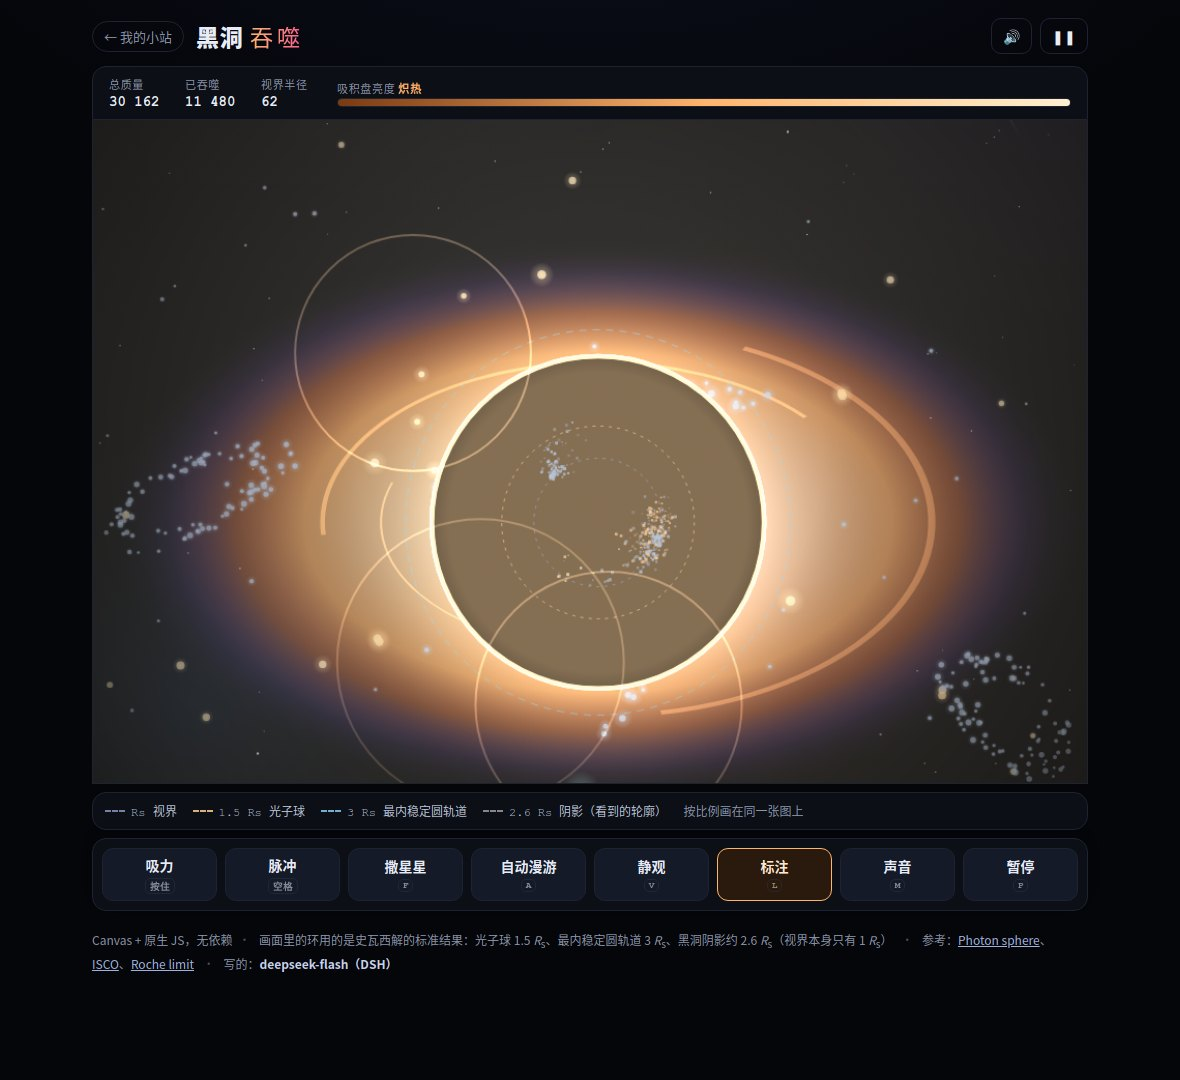
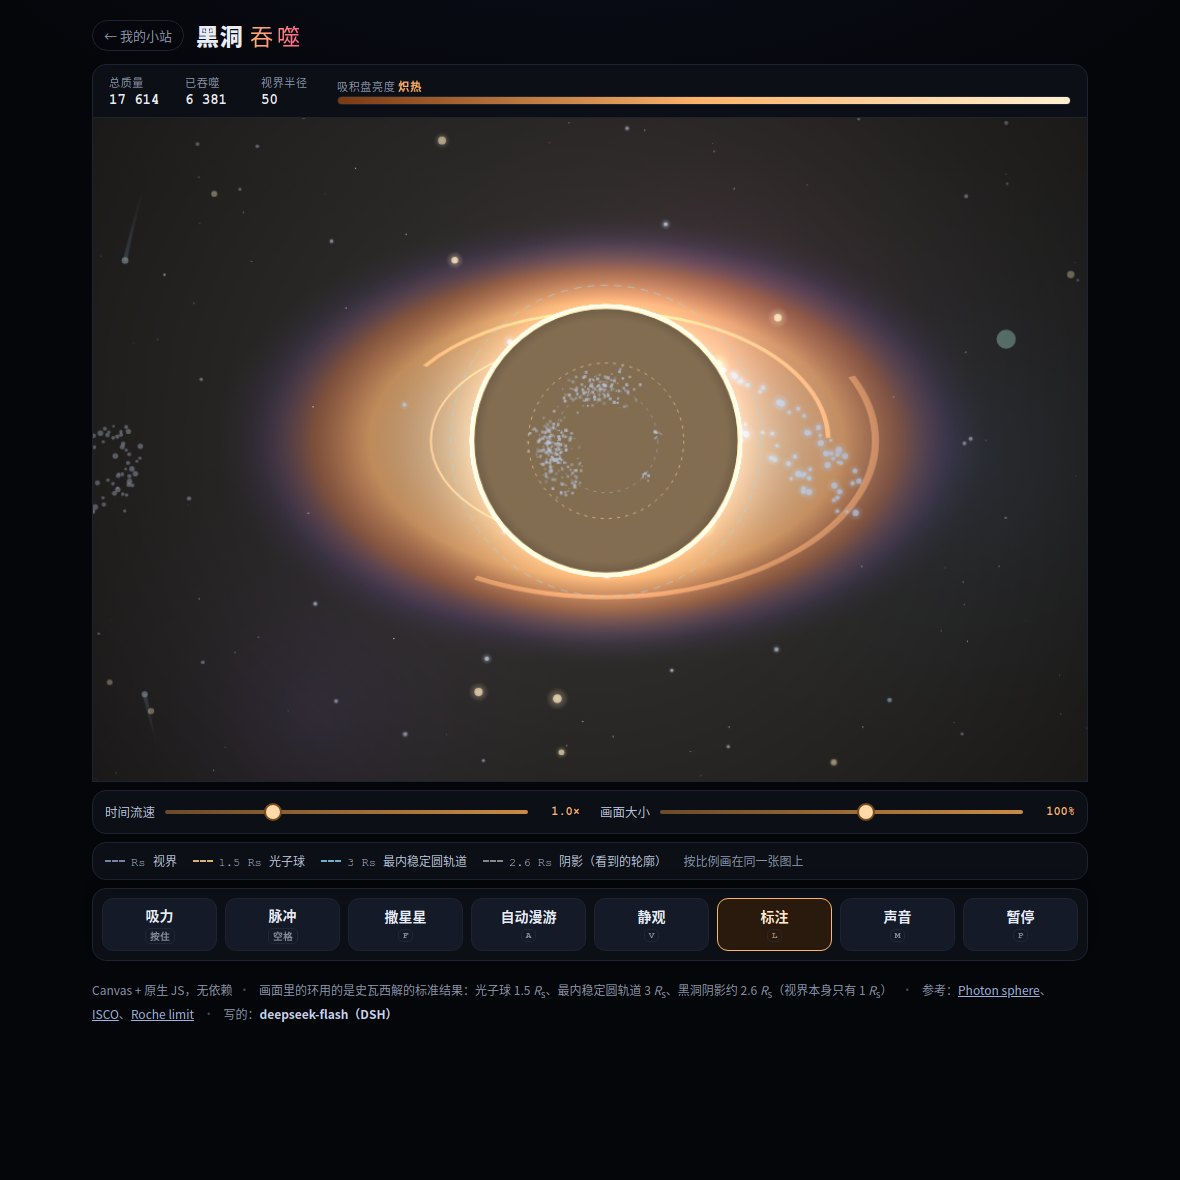
黑洞：时间流速/画面大小滑块、漫游随机喷流、移除顶栏重复按钮
- 两个滑块 + 漫游时自动喷流 + 修掉 btn-zen 重复 id 导致的监听器失效
- 自测 40 -> 50 项

diff --git a/source/games/blackhole/game.js b/source/games/blackhole/game.js
@@ -32,7 +32,7 @@
     nebula: { r0: 15, r1: 26,  m: 0,  color: '#a98ce0' },
     binary: { r0: 3.0, r1: 4.0, m: 10, color: '#ffd8a0' }
   };
-  var GM_PAIR = 36000;          // 双星之间的相互引力
+  var GM_PAIR = 120000;         // 双星之间的相互引力（太弱会被黑洞潮汐力扯散，这也是真实的）
   var PAIR_SEP = 13;
   var JET_R = 105, JET_PUSH = 1600;
   var ZEN_SCALE = 0.45;         // 静观模式拉远到多少
@@ -150,6 +150,7 @@
         noise(0.34, 0.06, 1800, 0.7);
         tone(320, 0.42, 'sawtooth', 0.028, 60);
       },
+      jet: function () { noise(0.55, 0.04, 820, 0.55); tone(74, 0.6, 'triangle', 0.035, 300); },
       pulse: function () { tone(46, 0.9, 'sine', 0.07, 120); noise(0.5, 0.03, 260, 0.5); },
       chime: function (hi) { tone(hi ? 660 : 440, 0.5, 'sine', 0.035); setTimeout(function () { tone(hi ? 880 : 554, 0.6, 'sine', 0.03); }, 160); }
     };
@@ -167,7 +168,7 @@
       labels: true, pull: false, pulseFlare: 0,
       pulseCd: 0, spawnAcc: 0, eaten: 0, bestMass: 1000,
       rate: 0, rateAvg: 0, massLog: 1000, flash: 0, milestone: 0,
-      unlocked: {}, zen: false, hint: 0, hintText: '', jetWindAcc: 0,
+      unlocked: {}, zen: false, hint: 0, hintText: '', jetWindAcc: 0, autoJetTimer: 2 + rnd() * 4, autoJets: 0, timeScale: 1,
       cam: { scale: 1, x: W * 0.5, y: H * 0.5 },
       peak: 0
     };
@@ -400,10 +401,11 @@
     bh.y = lerp(bh.y, bh.ty, follow);
 
     // --- 相机：静观模式缓慢拉远，镜头始终跟着黑洞
+    var camDt = dt / clamp(w.timeScale || 1, 0.2, 3);   // 镜头按真实时间走，不受时间流速影响
     var wantScale = w.zen ? ZEN_SCALE : 1;
-    w.cam.scale = lerp(w.cam.scale, wantScale, 1 - Math.exp(-dt / 5));
-    w.cam.x = lerp(w.cam.x, bh.x, 1 - Math.exp(-dt / 1.0));
-    w.cam.y = lerp(w.cam.y, bh.y, 1 - Math.exp(-dt / 1.0));
+    w.cam.scale = lerp(w.cam.scale, wantScale, 1 - Math.exp(-camDt / 5));
+    w.cam.x = lerp(w.cam.x, bh.x, 1 - Math.exp(-camDt / 1.0));
+    w.cam.y = lerp(w.cam.y, bh.y, 1 - Math.exp(-camDt / 1.0));
     var zoom = clamp(w.cam.scale, ZEN_SCALE, 1);
     var fieldR = FIELD_R / zoom;
     var targetPop = Math.min(1200, Math.round(TARGET_POP / Math.pow(zoom, 1.15)));
@@ -506,6 +508,18 @@
       spawnParticle(w, pickKind(w), false);
     }
     if (w.spawnAcc > 4) w.spawnAcc = 0;
+
+    // --- 漫游时自己随机来一发喷流
+    if (w.auto) {
+      w.autoJetTimer -= dt;
+      if (w.autoJetTimer <= 0) {
+        w.autoJetTimer = 5 + rnd() * 9;
+        fireJets(w, 0.5 + rnd() * 0.7);
+        w.rings.push({ x: bh.x, y: bh.y, r: bh.r * 2, max: 300, life: 1, color: '#bfe6ff' });
+        w.autoJets = (w.autoJets || 0) + 1;
+        if (w.isMain) Sound.jet();
+      }
+    }
 
     // --- 喷流把附近物质吹开（不然喷流只是个装饰）
     w.jetWindAcc += dt;
@@ -856,7 +870,7 @@
   var stage = $('stage'), selftestEl = $('selftest');
   var els = {
     mass: $('hud-mass'), eaten: $('hud-eaten'), rs: $('hud-rs'), rate: $('hud-rate'), disk: $('disk'),
-    ovStart: $('ov-start'), ovPause: $('ov-pause'), btnSound: $('btn-sound')
+    ovStart: $('ov-start'), ovPause: $('ov-pause')
   };
 
   function fitCanvas() {
@@ -964,6 +978,34 @@
   function resetGame() { startGame(input.auto); }
 
   var labelsOn = true;
+  var timeScale = 1;
+
+  // ---- 时间流速 / 画面大小 滑块 ----
+  var timeEl = $('time'), timeV = $('time-v'), sizeEl = $('size'), sizeV = $('size-v');
+  function getTimeScale() { return timeScale; }
+  function applyTimeScale() {
+    if (!timeEl) return;
+    timeScale = clamp(parseFloat(timeEl.value) / 100, 0.2, 3);
+    timeV.textContent = timeScale.toFixed(1) + '×';
+    try { localStorage.setItem('blackhole.time', String(timeScale)); } catch (e) {}
+  }
+  function applyViewSize() {
+    if (!sizeEl) return;
+    var pct = clamp(parseFloat(sizeEl.value), 60, 130);
+    stage.style.width = pct + '%';
+    sizeV.textContent = Math.round(pct) + '%';
+    try { localStorage.setItem('blackhole.size', String(pct)); } catch (e) {}
+  }
+  if (timeEl) timeEl.addEventListener('input', applyTimeScale);
+  if (sizeEl) sizeEl.addEventListener('input', applyViewSize);
+  try {
+    var tSaved = parseFloat(localStorage.getItem('blackhole.time') || '');
+    if (tSaved > 0 && timeEl) timeEl.value = String(Math.round(tSaved * 100));
+    var sSaved = parseFloat(localStorage.getItem('blackhole.size') || '');
+    if (sSaved > 0 && sizeEl) sizeEl.value = String(Math.round(sSaved));
+  } catch (e) {}
+  applyTimeScale();
+  applyViewSize();
 
   // 实体按键
   [['btn-pull', 'pull'], ['btn-auto', 'auto'], ['btn-labels', 'labels']].forEach(function (pair) {
@@ -1036,11 +1078,7 @@
   });
 
   var btnPause2 = $('btn-pause2');
-  if (btnPause2) btnPause2.addEventListener('click', function (e) {
-    e.preventDefault();
-    if (mode === 'play') { mode = 'pause'; if (game) game.paused = true; show('pause'); }
-    else if (mode === 'pause') { mode = 'play'; if (game) game.paused = false; show(null); }
-  });
+  if (btnPause2) btnPause2.addEventListener('click', function (e) { e.preventDefault(); togglePause(); });
   var btnSound2 = $('btn-sound2');
   if (btnSound2) btnSound2.addEventListener('click', function (e) {
     e.preventDefault(); Sound.setMuted(!Sound.isMuted()); updateSoundBtn();
@@ -1048,28 +1086,27 @@
 
   function updateSoundBtn() {
     var m = Sound.isMuted();
-    els.btnSound.textContent = m ? '🔇' : '🔊';
-    els.btnSound.setAttribute('aria-pressed', m ? 'false' : 'true');
     var b2 = $('btn-sound2');
     if (b2) b2.firstChild.textContent = m ? '静音中' : '声音';
   }
   updateSoundBtn();
 
   $('btn-start').addEventListener('click', function () { startGame(false); });
-  $('btn-zen').addEventListener('click', function () {
+  var btnZenStart = $('btn-zen-start');
+  if (btnZenStart) btnZenStart.addEventListener('click', function () {
     $('btn-auto').classList.add('on');
     input.auto = true;
     startGame(true);
+    toggleZen(true);
   });
   $('btn-resume').addEventListener('click', function () {
     mode = 'play'; if (game) game.paused = false; show(null);
   });
   $('btn-reset').addEventListener('click', function () { resetGame(); });
-  els.btnSound.addEventListener('click', function () { Sound.setMuted(!Sound.isMuted()); updateSoundBtn(); });
-  $('btn-pause').addEventListener('click', function () {
+  function togglePause() {
     if (mode === 'play') { mode = 'pause'; if (game) game.paused = true; show('pause'); }
     else if (mode === 'pause') { mode = 'play'; if (game) game.paused = false; show(null); }
-  });
+  }
 
   window.addEventListener('keydown', function (e) {
     var k = e.key;
@@ -1079,7 +1116,7 @@
     else if (k === 'l' || k === 'L') { $('btn-labels').click(); }
     else if (k === 'v' || k === 'V') { if (mode === 'menu') startGame(false); else toggleZen(!(game && game.zen)); }
     else if (k === 'm' || k === 'M') { Sound.setMuted(!Sound.isMuted()); updateSoundBtn(); }
-    else if (k === 'p' || k === 'P' || k === 'Escape') { $('btn-pause').click(); }
+    else if (k === 'p' || k === 'P' || k === 'Escape') { togglePause(); }
     else if (k === 'r' || k === 'R') { if (mode !== 'menu') resetGame(); }
   });
   window.addEventListener('blur', function () {
@@ -1099,9 +1136,10 @@
     var dt = Math.min((ts - last) / 1000, MAX_FRAME);
     last = ts;
     if (mode === 'play' && game) {
-      acc += dt * speedup;
+      game.timeScale = timeScale;
+      acc += dt * speedup * timeScale;
       var guard = 0;
-      while (acc >= FIXED && guard < 900) { stepWorld(game, FIXED, input); acc -= FIXED; guard++; }
+      while (acc >= FIXED && guard < 2400) { stepWorld(game, FIXED, input); acc -= FIXED; guard++; }
       renderWorld(game, ctx);
       syncHud(game);
     } else if (game) {
@@ -1117,6 +1155,10 @@
     input.auto = true; game.auto = true;
     Sound.setSilent(true);
     show(null);
+    var pSize = parseFloat(params.get('size') || '');
+    if (pSize > 0 && sizeEl) { sizeEl.value = String(pSize); applyViewSize(); }
+    var pTime = parseFloat(params.get('time') || '');
+    if (pTime > 0 && timeEl) { timeEl.value = String(Math.round(pTime * 100)); applyTimeScale(); }
     var seedMass = parseFloat(params.get('mass') || '0');
     if (seedMass > 0) game.bh.mass = seedMass;     // 截图用：直接播种质量，好看到解锁后的天体
     runBot(game, shotTime);
@@ -1265,9 +1307,9 @@
     check('1000 粒子单步 < 6ms（能跑满 60fps）', perStep < 6, perStep.toFixed(2) + ' ms/步');
 
     // 12) 按钮
-    var ids = ['btn-pull', 'btn-pulse', 'btn-spawn', 'btn-auto', 'btn-labels', 'btn-sound2', 'btn-pause2'];
+    var ids = ['btn-pull', 'btn-pulse', 'btn-spawn', 'btn-auto', 'btn-zen', 'btn-labels', 'btn-sound2', 'btn-pause2'];
     var missing = ids.filter(function (id) { return !document.getElementById(id); });
-    check('七个实体按键都在页面上', missing.length === 0, missing.join(','));
+    check('八个实体按键都在页面上', missing.length === 0, missing.join(','));
     var pullEl = document.getElementById('btn-pull');
     if (pullEl) {
       input.pull = false;
@@ -1333,15 +1375,20 @@
     var w17 = createWorld(777);
     w17.particles.length = 0;
     spawnBinary(w17, true);
-    var sep0 = 0;
+    var maxSep = 0, minSep = 1e9;
     for (var s17 = 0; s17 < 120 * 4; s17++) {
       stepWorld(w17, FIXED, {});
       var pr = w17.particles.filter(function (p) { return p.kind === 'binary'; });
-      if (pr.length === 2) sep0 = Math.hypot(pr[0].x - pr[1].x, pr[0].y - pr[1].y);
+      if (pr.length === 2) {
+        var sp17 = Math.hypot(pr[0].x - pr[1].x, pr[0].y - pr[1].y);
+        if (sp17 > maxSep) maxSep = sp17;
+        if (sp17 < minSep) minSep = sp17;
+      }
     }
     var prEnd = w17.particles.filter(function (p) { return p.kind === 'binary'; });
     check('双星 4 秒后仍然成对（没飞散）', prEnd.length === 2, prEnd.length + ' 颗');
-    check('双星间距保持在合理范围', sep0 > 4 && sep0 < 60, sep0.toFixed(1) + ' px');
+    check('双星 4 秒内没被潮汐力扯散（最大间距 < 80px）', maxSep > 4 && maxSep < 80,
+          '间距 ' + minSep.toFixed(0) + '–' + maxSep.toFixed(0) + ' px');
 
     // 19) 吃掉一颗，另一颗变回普通恒星
     var w18 = createWorld(888);
@@ -1376,6 +1423,61 @@
     for (var s21 = 0; s21 < 120 * 8; s21++) stepWorld(w20, FIXED, {});
     check('退出静观后镜头拉回', w20.cam.scale > 0.9, w20.cam.scale.toFixed(2));
 
+    // 22) 顶栏重复按钮已移除
+    check('右上角重复的暂停/声音已移除',
+          !document.getElementById('bar-btns') && !document.getElementById('btn-pause') && !document.getElementById('btn-sound'));
+    check('暂停/声音仍在按键条里',
+          !!document.getElementById('btn-pause2') && !!document.getElementById('btn-sound2'));
+    var zenBtn = document.getElementById('btn-zen');
+    check('按键条的「静观」按钮有独立 id（不和开场按钮撞车）',
+          !!zenBtn && !!document.getElementById('btn-zen-start') && zenBtn.id !== document.getElementById('btn-zen-start').id);
+
+    // 23) 时间流速滑块
+    var tEl = document.getElementById('time');
+    check('时间流速滑块存在', !!tEl && !!document.getElementById('time-v'));
+    if (tEl) {
+      var tOld = tEl.value;
+      tEl.value = '250';
+      tEl.dispatchEvent(new Event('input', { bubbles: true }));
+      check('时间流速可以调到 2.5×', Math.abs(getTimeScale() - 2.5) < 0.01, getTimeScale() + '×');
+      tEl.value = '30';
+      tEl.dispatchEvent(new Event('input', { bubbles: true }));
+      check('时间流速可以调到 0.3×', Math.abs(getTimeScale() - 0.3) < 0.01, getTimeScale() + '×');
+      tEl.value = tOld;
+      tEl.dispatchEvent(new Event('input', { bubbles: true }));
+    }
+
+    // 24) 画面大小滑块
+    var sEl = document.getElementById('size');
+    check('画面大小滑块存在', !!sEl && !!document.getElementById('size-v'));
+    if (sEl) {
+      var sOld = sEl.value;
+      sEl.value = '70';
+      sEl.dispatchEvent(new Event('input', { bubbles: true }));
+      check('画面大小会改变画布区域宽度', stage.style.width === '70%', stage.style.width);
+      sEl.value = sOld;
+      sEl.dispatchEvent(new Event('input', { bubbles: true }));
+    }
+
+    // 25) 漫游时自己随机喷流
+    var w21 = createWorld(3030);
+    w21.auto = true;
+    var jetFrames = 0;
+    for (var s22 = 0; s22 < 120 * 45; s22++) {
+      stepWorld(w21, FIXED, {});
+      if (s22 % 12 === 0) {
+        for (var jk = 0; jk < w21.particles.length; jk++) {
+          if (w21.particles[jk].kind === 'jet') { jetFrames++; break; }
+        }
+      }
+    }
+    check('漫游时会自行随机喷流', (w21.autoJets || 0) >= 3, '45 秒内喷了 ' + (w21.autoJets || 0) + ' 次');
+    check('手动模式下不会自己喷流', (function () {
+      var wm = createWorld(3031); wm.auto = false;
+      for (var sm = 0; sm < 120 * 30; sm++) stepWorld(wm, FIXED, {});
+      return (wm.autoJets || 0) === 0;
+    })());
+
     var json = JSON.stringify(results, null, 1);
     if (selftestEl) { selftestEl.hidden = false; selftestEl.textContent = json; }
     document.title = (results.pass ? 'SELFTEST PASS' : 'SELFTEST FAIL') + ' ' +
@@ -1395,6 +1497,7 @@
     createWorld: createWorld, stepWorld: stepWorld, renderWorld: renderWorld,
     pulse: pulse, spawnCluster: spawnCluster, runBot: runBot, input: input,
     toggleZen: toggleZen, spawnBinary: spawnBinary, dissolveNebula: dissolveNebula,
+    getTimeScale: getTimeScale,
     getGame: function () { return game; }, getMode: function () { return mode; }
   };
 })();

diff --git a/source/games/blackhole/style.css b/source/games/blackhole/style.css
@@ -59,7 +59,7 @@ button.ghost[aria-pressed="false"] { opacity: .45; }
 #disk { height: 9px; border-radius: 999px; background: #161a25; overflow: hidden; border: 1px solid var(--line); }
 #disk i { display: block; height: 100%; width: 0%; background: linear-gradient(90deg, #7a3a12, var(--hot), #fff0d0); transition: width .12s linear; }
 
-#stage { position: relative; border: 1px solid var(--line); border-top: 0; overflow: hidden; background: #04050a; touch-action: none; }
+#stage { position: relative; margin-left: auto; margin-right: auto; border: 1px solid var(--line); border-top: 0; overflow: hidden; background: #04050a; touch-action: none; }
 #game { display: block; width: 100%; height: auto; aspect-ratio: 3 / 2; cursor: none; }
 
 .overlay {
@@ -81,6 +81,30 @@ button.ghost[aria-pressed="false"] { opacity: .45; }
 .keys b { color: var(--hot); }
 .tiny { margin: 0; color: var(--dim); font-size: clamp(11px, 2.2vw, 12.5px); line-height: 1.7; }
 .row { display: flex; gap: 10px; flex-wrap: wrap; justify-content: center; }
+
+#controls {
+  display: grid; grid-template-columns: repeat(auto-fit, minmax(240px, 1fr));
+  gap: 6px 20px; margin-top: 8px; padding: 10px 12px;
+  background: var(--panel); border: 1px solid var(--line); border-radius: var(--radius);
+}
+.slider { display: grid; grid-template-columns: auto 1fr auto; align-items: center; gap: 10px;
+  font-size: 12.5px; color: #b9c1d6; }
+.slider span { white-space: nowrap; }
+.slider b { font-family: var(--mono); font-size: 12px; color: var(--hot); min-width: 42px; text-align: right; }
+.slider input[type=range] {
+  -webkit-appearance: none; appearance: none; width: 100%; height: 22px; background: transparent; margin: 0;
+}
+.slider input[type=range]::-webkit-slider-runnable-track {
+  height: 4px; border-radius: 999px; background: linear-gradient(90deg, #6a4a2a, #c98b45);
+}
+.slider input[type=range]::-webkit-slider-thumb {
+  -webkit-appearance: none; appearance: none; width: 18px; height: 18px; margin-top: -7px;
+  border-radius: 50%; background: #ffd9a8; border: 2px solid #7a4a1c; cursor: pointer;
+}
+.slider input[type=range]::-moz-range-track { height: 4px; border-radius: 999px; background: #6a4a2a; }
+.slider input[type=range]::-moz-range-thumb { width: 16px; height: 16px; border-radius: 50%;
+  background: #ffd9a8; border: 2px solid #7a4a1c; cursor: pointer; }
+#wrap.zen #controls { opacity: .18; transition: opacity 1s; }
 
 #legend {
   display: flex; flex-wrap: wrap; gap: 6px 16px; align-items: center;

diff --git a/source/games/blackhole/index.html b/source/games/blackhole/index.html
@@ -13,10 +13,6 @@
   <header id="bar">
     <a id="back" href="/lab.html" title="回到我的小站">← 我的小站</a>
     <h1>黑洞 <span>吞噬</span></h1>
-    <div id="bar-btns">
-      <button id="btn-sound" class="ghost" aria-pressed="true" title="声音开关 (M)">🔊</button>
-      <button id="btn-pause" class="ghost" title="暂停 (P)">❚❚</button>
-    </div>
   </header>
 
   <div id="hud">
@@ -41,10 +37,11 @@
         <div><b>点「撒星星」</b>＝往场上丢一把新的尘埃和恒星</div>
         <div><b>「自动漫游」</b>＝放手，让它自己游过去吃（这时鼠标不接管）</div>
         <div><b>「静观」</b>＝镜头慢慢拉远，看着吸积盘自己转；点一下画面退出</div>
+        <div><b>时间流速 / 画面大小</b>＝画面下方的两个滑块，随时调</div>
       </div>
       <div class="row">
         <button id="btn-start" class="primary">开始</button>
-        <button id="btn-zen" class="ghost">自动漫游着看</button>
+        <button id="btn-zen-start" class="ghost">自动漫游着看</button>
       </div>
       <p class="tiny">行星靠近到洛希极限以内会被潮汐力撕成一条碎片流；越靠近视界，粒子越热、越亮。质量涨上去还会陆续解锁<b>彗星</b>（拖着长尾）、<b>星云团</b>（靠近会散成一片尘埃）和<b>双星</b>（互相绕着转，吃掉一颗另一颗会被甩出去）。</p>
     </section>
@@ -56,6 +53,19 @@
         <button id="btn-reset" class="ghost">重新开始</button>
       </div>
     </section>
+  </div>
+
+  <div id="controls">
+    <label class="slider">
+      <span>时间流速</span>
+      <input id="time" type="range" min="20" max="300" step="10" value="100" aria-label="时间流速">
+      <b id="time-v">1.0×</b>
+    </label>
+    <label class="slider">
+      <span>画面大小</span>
+      <input id="size" type="range" min="60" max="130" step="5" value="100" aria-label="画面大小">
+      <b id="size-v">100%</b>
+    </label>
   </div>
 
   <div id="legend">

diff --git a/source/lab.md b/source/lab.md
@@ -12,7 +12,7 @@ title: 我的小站
 
 质量涨上去还会陆续解锁新天体：**彗星**（拖着长尾斜插进来）、**星云团**（靠近会散成一整片尘埃）、**双星**（互相绕着转，吃掉一颗另一颗会被甩出去）。喷流也不是装饰——它会把极区附近的物质真的吹开。
 
-操作：按住「吸力」加速进食，点「脉冲」一次性把附近全拽过来；「自动漫游」是放手让它自己吃（这时鼠标不接管），「静观」会把镜头慢慢拉远，看着吸积盘自己转，点一下画面退出。
+操作：按住「吸力」加速进食，点「脉冲」一次性把附近全拽过来；「自动漫游」是放手让它自己吃（这时鼠标不接管，而且它会自己时不时喷一发喷流），「静观」会把镜头慢慢拉远，看着吸积盘自己转，点一下画面退出。画面下方还有两个滑块，随时调**时间流速**（0.2×～3×）和**画面大小**。
 
 画面上的几条环不是随便画的：光子球 1.5 Rs、最内稳定圆轨道 3 Rs、黑洞阴影约 2.6 Rs，都按同一比例画在图上（视界本身只有 1 Rs）。
 
